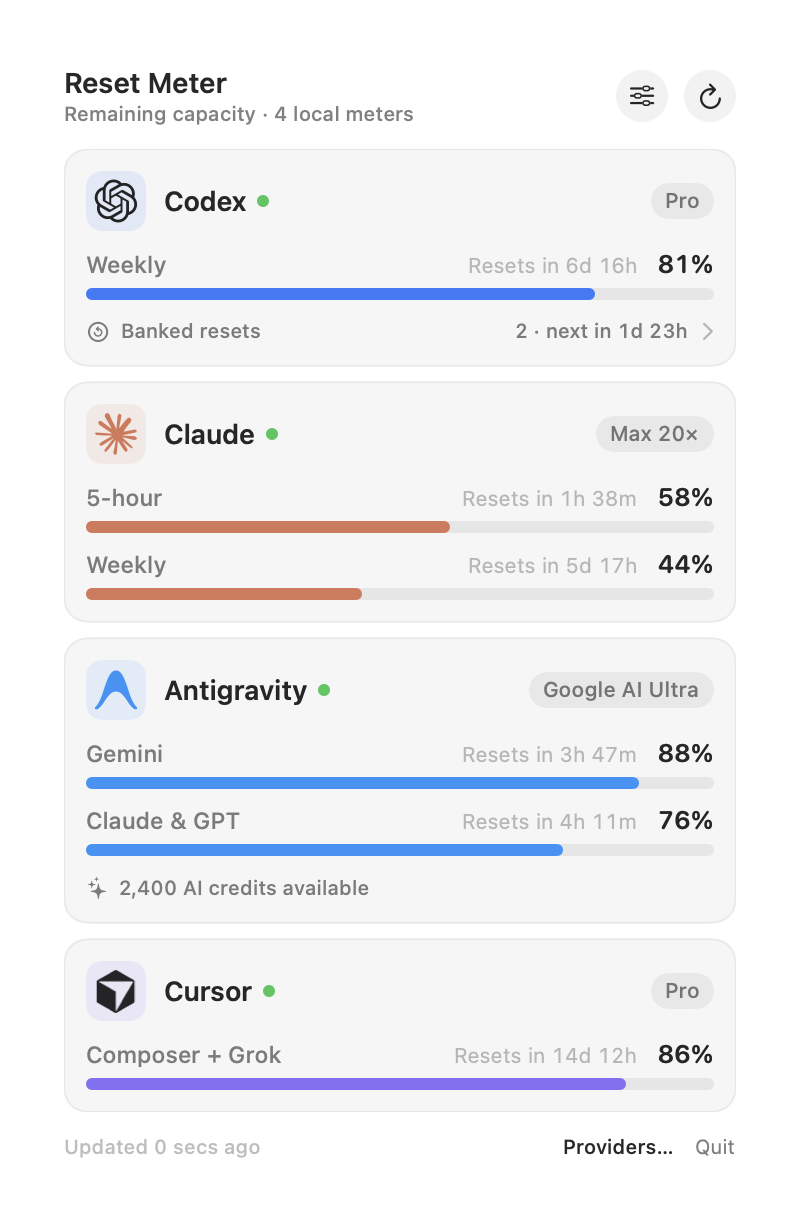
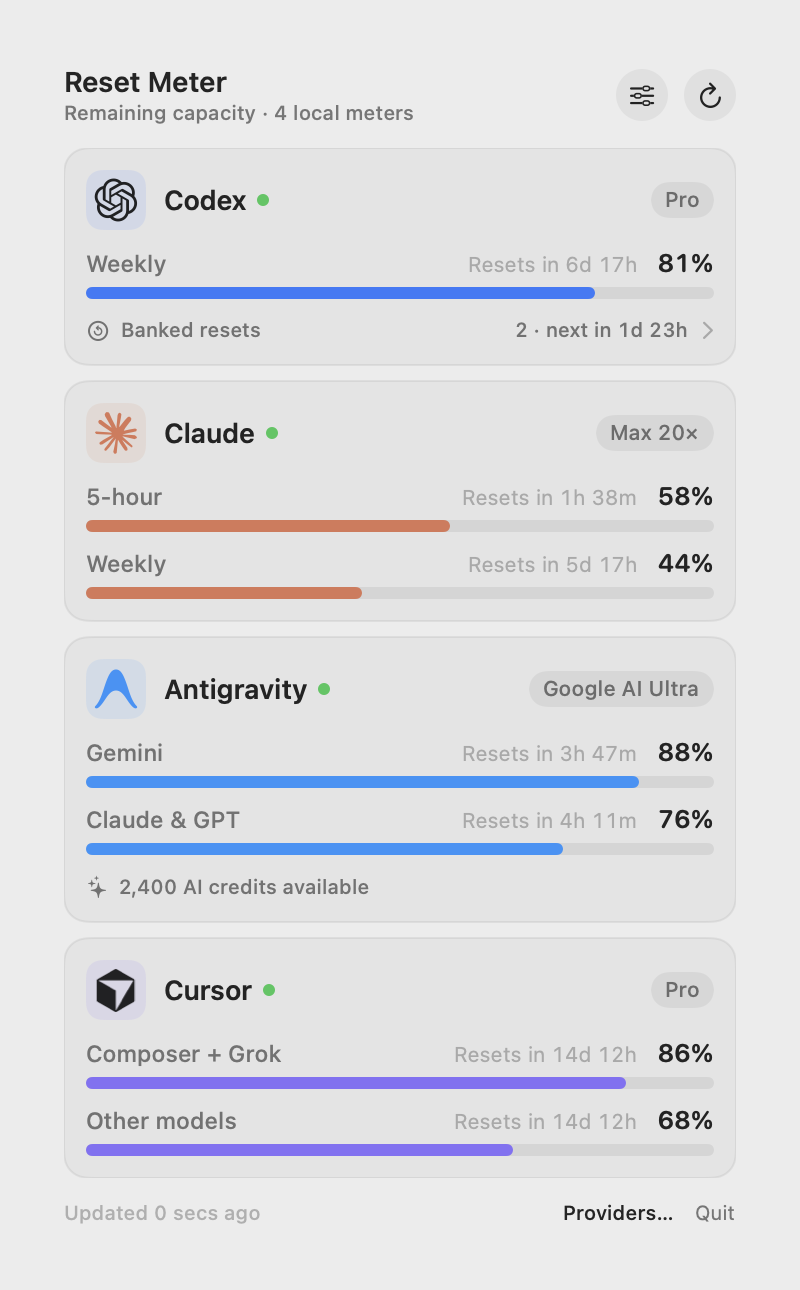
Add Cursor Other models usage pool and bump build to 14

Changed region(s): [[0.0625, 0.031, 0.9375, 0.9624]]

diff --git a/Tests/UsageMeterCoreTests/CursorUsageReaderTests.swift b/Tests/UsageMeterCoreTests/CursorUsageReaderTests.swift
@@ -2,17 +2,32 @@ import Foundation
 import Testing
 @testable import UsageMeterCore
 
-@Test func cursorFirstPartyUsageDisplaysRemainingPercentResetAndPlan() throws {
-    let data = #"{"billingCycleStart":"1785235728000","billingCycleEnd":"1787914128000","planUsage":{"autoPercentUsed":14.007142857142856,"apiPercentUsed":100}}"#.data(using: .utf8)!
+@Test func cursorUsageDisplaysFirstPartyAndOtherModelsPoolsWithResetAndPlan() throws {
+    let data = #"{"billingCycleStart":"1785235728000","billingCycleEnd":"1787914128000","planUsage":{"autoPercentUsed":14.007142857142856,"apiPercentUsed":35.2}}"#.data(using: .utf8)!
     let now = Date(timeIntervalSince1970: 1_785_500_000)
 
     let usage = try CursorUsageReader.parse(data: data, now: now, planName: AccountPlan.cursor("pro"))
 
     #expect(usage.provider == .cursor)
-    #expect(usage.headlinePercent == 86)
     #expect(usage.planName == "Pro")
-    #expect(usage.limits.first?.label == "Composer + Grok")
-    #expect(usage.limits.first?.resetsAt == Date(timeIntervalSince1970: 1_787_914_128))
+    #expect(usage.limits.map(\.label) == ["Composer + Grok", "Other models"])
+    #expect(usage.limits.map { Int($0.displayPercent.rounded()) } == [86, 65])
+    #expect(usage.headlinePercent == 65)
+    #expect(usage.limits.allSatisfy { $0.resetsAt == Date(timeIntervalSince1970: 1_787_914_128) })
+
+    // Exhausted Other models pool (100% used -> 0% remaining) surfaces alongside remaining Composer + Grok capacity.
+    let exhaustedOtherData = #"{"billingCycleStart":"1785235728000","billingCycleEnd":"1787914128000","planUsage":{"autoPercentUsed":14.007142857142856,"apiPercentUsed":100}}"#.data(using: .utf8)!
+    let exhaustedOther = try CursorUsageReader.parse(data: exhaustedOtherData, now: now, planName: "Pro")
+    #expect(exhaustedOther.limits.map(\.label) == ["Composer + Grok", "Other models"])
+    #expect(exhaustedOther.limits.map { Int($0.displayPercent.rounded()) } == [86, 0])
+    #expect(exhaustedOther.headlinePercent == 0)
+
+    // Spend/limit fallback for Other models when explicit percent scalar is absent.
+    let spendFallbackData = #"{"billingCycleEnd":"1787914128000","planUsage":{"autoPercentUsed":10,"apiSpend":500,"apiLimit":2000}}"#.data(using: .utf8)!
+    let spendFallback = try CursorUsageReader.parse(data: spendFallbackData, now: now, planName: "Pro")
+    #expect(spendFallback.limits.map(\.label) == ["Composer + Grok", "Other models"])
+    #expect(spendFallback.limits.map { Int($0.displayPercent.rounded()) } == [90, 75])
+    #expect(spendFallback.headlinePercent == 75)
 }
 
 @Test func cursorParsesEnterpriseSpendLimitsIncludedPoolsAndUnlimitedSeats() throws {
@@ -146,11 +161,15 @@ import Testing
     #expect(!challenge.loginURL.absoluteString.contains("secret-verifier-value"))
 }
 
-@Test func cursorUsageRejectsResponseWithoutFirstPartyPool() {
-    let data = #"{"planUsage":{"apiPercentUsed":100}}"#.data(using: .utf8)!
+@Test func cursorUsageSupportsOtherModelsOnlyAndRejectsEmptyResponse() throws {
+    let otherOnly = #"{"billingCycleEnd":"1787914128000","planUsage":{"apiPercentUsed":25}}"#.data(using: .utf8)!
+    let parsed = try CursorUsageReader.parse(data: otherOnly, now: .now)
+    #expect(parsed.limits.map(\.label) == ["Other models"])
+    #expect(parsed.headlinePercent == 75)
 
+    let empty = #"{"planUsage":{}}"#.data(using: .utf8)!
     #expect(throws: UsageReadError.self) {
-        try CursorUsageReader.parse(data: data, now: .now)
+        try CursorUsageReader.parse(data: empty, now: .now)
     }
 }
 

diff --git a/Sources/UsageMeterCore/CursorUsageReader.swift b/Sources/UsageMeterCore/CursorUsageReader.swift
@@ -256,16 +256,40 @@ public enum CursorUsageReader {
         var footnotes: [String] = []
 
         if let planUsage = root["planUsage"] as? [String: Any] {
-            if let autoPercent = finiteDouble(planUsage["autoPercentUsed"]) {
-                limits.append(
-                    UsageLimit(
-                        id: "cursor-first-party",
-                        label: "Composer + Grok",
-                        usedPercent: autoPercent,
-                        resetsAt: reset,
-                        displayMode: .remaining
+            let autoPercent = poolPercentUsed(
+                direct: planUsage["autoPercentUsed"],
+                spend: planUsage["autoSpend"],
+                limit: planUsage["autoLimit"]
+            )
+            let apiPercent = poolPercentUsed(
+                direct: planUsage["apiPercentUsed"],
+                spend: planUsage["apiSpend"],
+                limit: planUsage["apiLimit"]
+            )
+
+            if autoPercent != nil || apiPercent != nil {
+                if let autoPercent {
+                    limits.append(
+                        UsageLimit(
+                            id: "cursor-first-party",
+                            label: "Composer + Grok",
+                            usedPercent: autoPercent,
+                            resetsAt: reset,
+                            displayMode: .remaining
+                        )
                     )
-                )
+                }
+                if let apiPercent {
+                    limits.append(
+                        UsageLimit(
+                            id: "cursor-other-models",
+                            label: "Other models",
+                            usedPercent: apiPercent,
+                            resetsAt: reset,
+                            displayMode: .remaining
+                        )
+                    )
+                }
             } else if let limitCents = finiteDouble(planUsage["limit"]), limitCents > 0 {
                 let includedCents = finiteDouble(planUsage["includedSpend"]) ?? 0
                 let usedPercent = min(max((includedCents / limitCents) * 100, 0), 100)
@@ -471,6 +495,21 @@ public enum CursorUsageReader {
         }
         if let string = value as? String {
             return TimeInterval(string)
+        }
+        return nil
+    }
+
+    private static func poolPercentUsed(
+        direct: Any?,
+        spend: Any?,
+        limit: Any?
+    ) -> Double? {
+        if let percent = finiteDouble(direct) {
+            return min(max(percent, 0), 100)
+        }
+        if let limitCents = finiteDouble(limit), limitCents > 0 {
+            let spendCents = finiteDouble(spend) ?? 0
+            return min(max((spendCents / limitCents) * 100, 0), 100)
         }
         return nil
     }

diff --git a/Sources/ResetMeterApp/UsageStore.swift b/Sources/ResetMeterApp/UsageStore.swift
@@ -500,9 +500,16 @@ final class UsageStore: ObservableObject {
             resetsAt: now.addingTimeInterval(1_256_340),
             displayMode: .remaining
         )
+        let cursorOtherModels = UsageLimit(
+            id: "cursor-demo-other-models",
+            label: "Other models",
+            usedPercent: 32,
+            resetsAt: now.addingTimeInterval(1_256_340),
+            displayMode: .remaining
+        )
         demoUsage[cursorDefault.id] = ProviderUsage(
             provider: .cursor,
-            limits: [cursorIncluded],
+            limits: [cursorIncluded, cursorOtherModels],
             updatedAt: now,
             sourceDescription: "Live local Cursor pool",
             planName: "Pro"

diff --git a/Tests/ResetMeterAppTests/UsageStoreTests.swift b/Tests/ResetMeterAppTests/UsageStoreTests.swift
@@ -211,7 +211,7 @@ import UsageMeterCore
 
     #expect(store.menuEntries.count == 6)
     #expect(store.menuGroups.map(\.provider) == [.codex, .claude, .antigravity, .cursor])
-    #expect(store.menuGroups.map(\.percents) == [[81, 71], [44, 82], [76], [86]])
+    #expect(store.menuGroups.map(\.percents) == [[81, 71], [44, 82], [76], [68]])
 
     store.setVisible(false, entryID: "codex:default")
     #expect(store.menuGroups.first?.percents == [71])

diff --git a/README.md b/README.md
@@ -37,7 +37,7 @@ Reset Meter does **not** ask you to sign in through a separate browser flow, doe
 | **Codex** | Queries your installed `codex` CLI (`app-server`, including the CLI bundled inside `ChatGPT.app`) per `CODEX_HOME` directory for live rate limits, subscription plan, and banked resets. |
 | **Claude** | Uses a 3-layer read-only pipeline per profile: **(1)** active local Claude Desktop Code session matched to that profile's organization or config directory, **(2)** standalone Claude Code credentials in macOS Keychain or `.credentials.json` (read-only, never rotated), and **(3)** Claude Desktop's `plan-usage-history.json` + `.claude.json` plan metadata when offline or idle. |
 | **Antigravity** | Queries the running local Antigravity `language_server` over loopback (`127.0.0.1`) for live model quota pools (`Gemini`, `Claude & GPT`), subscription tier (for example **Google AI Ultra**), and available AI credits, with a local snapshot fallback while Antigravity is closed. |
-| **Cursor** | Reads local `cursor-agent` CLI credentials (`~/.cursor/auth.json` / Keychain) or unencrypted `state.vscdb` automatically, and provides a one-click **Connect Cursor…** PKCE flow when Cursor 3.29+ encrypts its desktop token at rest (`cursor-safe-storage:v1:`). Supports Pro, Pro+, Ultra, Team, and Enterprise spend/pooled limits. |
+| **Cursor** | Reads local `cursor-agent` CLI credentials (`~/.cursor/auth.json` / Keychain) or unencrypted `state.vscdb` automatically, and provides a one-click **Connect Cursor…** PKCE flow when Cursor 3.29+ encrypts its desktop token at rest (`cursor-safe-storage:v1:`). Tracks both `Composer + Grok` and `Other models` quota pools across Pro, Pro+, Ultra, Team, and Enterprise spend/pooled limits. |
 
 These integrations use local or provider-internal interfaces rather than stable public usage APIs. A provider update can require a corresponding Reset Meter update.
 
